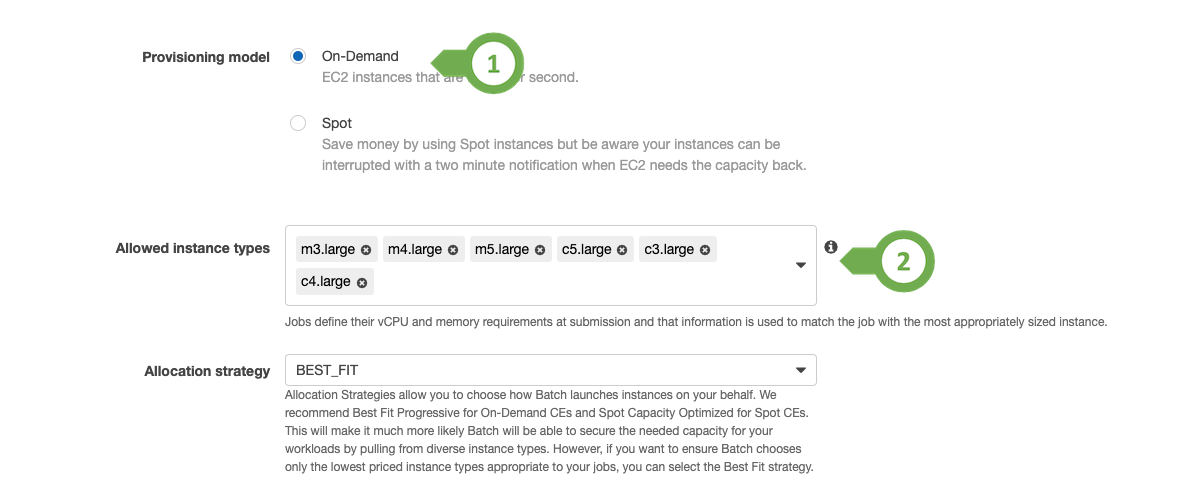
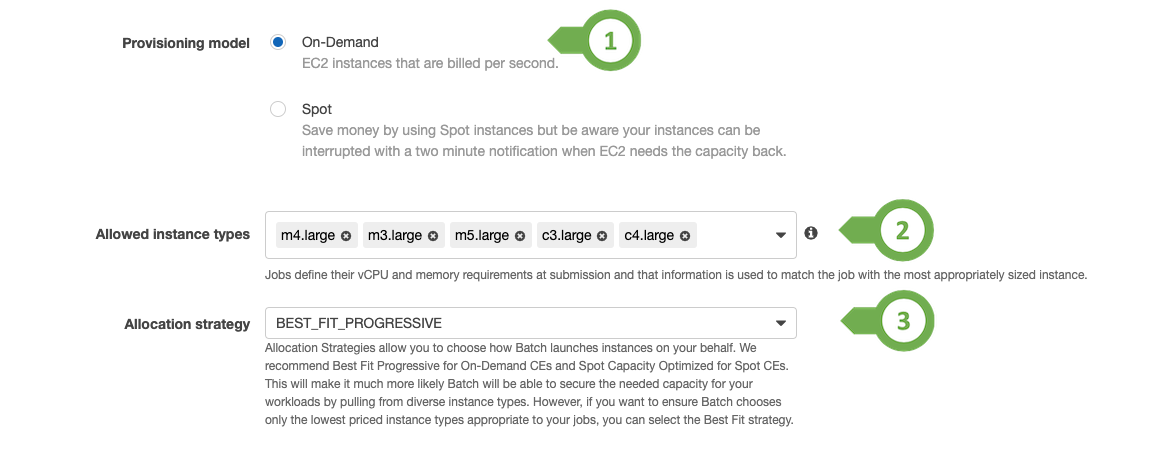
adding more feedback from Carlos

Changed region(s): [[0.0621, 0.4308, 0.931, 0.9538], [0.0931, 0.0, 0.5586, 0.1846], [0.2483, 0.2154, 0.6828, 0.3692]]

diff --git a/content/nextflow-on-aws-batch/20_nextflow101/10_small.md b/content/nextflow-on-aws-batch/20_nextflow101/10_small.md
@@ -17,6 +17,49 @@ The example workflow implements a simple RNA-seq pipeline which:
    3. performs quantification
    4. creates a MultiQC report
 
+### Nextflow DSL
+
+Even though this is not a deep dive into Nextflow's DSL - please have a look at how the Nextflow script is structured and appreciate the UNIX resemblance having an `input`, `output` and a `script`.
+You can dive deeper by going through the [Nextflow documentation](https://www.nextflow.io/docs/latest/getstarted.html) and tutorials ([nextflow-camp tutorial](https://github.com/nextflow-io/nfcamp-tutorial), [DSL-2](https://www.nextflow.io/docs/edge/dsl2.html)).
+
+```ruby
+/* 
+ * pipeline input parameters 
+ */
+params.reads = "$baseDir/data/ggal/gut_{1,2}.fq"
+params.transcript = "$baseDir/data/ggal/transcriptome.fa"
+params.multiqc = "$baseDir/multiqc"
+params.outdir = "results"
+
+log.info """\
+         R N A S E Q - N F   P I P E L I N E    
+         ===================================
+         transcriptome: ${params.transcript}
+         reads        : ${params.reads}
+         outdir       : ${params.outdir}
+         """
+         .stripIndent()
+
+ 
+/* 
+ * define the `index` process that create a binary index 
+ * given the transcriptome file
+ */
+process index {
+    
+    input:
+    path transcriptome from params.transcript
+     
+    output:
+    path 'index' into index_ch
+
+    script:       
+    """
+    salmon index --threads $task.cpus -t $transcriptome -i index
+    """
+}
+```
+
 ### Pull Image and run
 
 As nextflow will run the image `nextflow/rnaseq-nf` and thus needs to download almost 3GB without advancing, we will first download the image so that we can see what docker is doing.
@@ -71,14 +114,3 @@ $
 The report can be previewed within Cloud9. Right-click (**[1]**) on the file and choose `Preview` (**[2]**) from the context menue.
 
 ![multiqc_report](/images/nextflow-on-aws-batch/nextflow101/multiqc_report.png)
-
-With more elaborate output nextflow can create more reports.
-
-```bash
-nextflow run script7.nf -with-report -with-trace -with-timeline -with-dag dag.png
-```
-
-This creates a bunch more reports about the workflow. E.g.:
-
-![dag](/images/nextflow-on-aws-batch/nextflow101/dag.png)
-![timeline](/images/nextflow-on-aws-batch/nextflow101/timeline.png)

diff --git a/content/nextflow-on-aws-batch/30_batch/20_dashboard.md b/content/nextflow-on-aws-batch/30_batch/20_dashboard.md
@@ -4,6 +4,18 @@ chapter: false
 weight: 20
 ---
 
+
+## AWS Batch in a Nutshell
+
+A typical AWS Batch workload might be triggered by input data being uploaded to S3, this will kick in multiple stages.
+
+![batch-arch](/images/nextflow-on-aws-batch/batch/batch_arch.gif)
+
+1. The *Upload* event triggeres a submission to a job queue (e.g. via lambda function)
+1. The AWS Batch scheduler runs periodically to check for jobs in the job queue
+1. Once jobs are placed, the scheduler evaluates the Compute Environments and adjusts the compute capacity to allow the jobs to run.
+1. The job output is stored external to the job (e.g. S3, EFS or FSx for Lustre)
+
 ## AWS Batch Dashboard
 
 Follow this [deep link to get to AWS Batch ](https://console.aws.amazon.com/batch/home) you will be greated by the landing page.
@@ -16,8 +28,8 @@ Click on 'get started' and skip the wizard.
 
 Now we are at the AWS Batch Dashboard, which allows us to create 
 
-   1. **Compute Environments**
-   1. **Job Definitions**
-   1. **Job Queues** 
+   1. **Job Definitions** Description of what application (Docker Image), how to use it (stroage, resource requirements) and what IAM persmissions are granted to the job execution.
+   1. **Job Queues** Logical queue holding jobs. A queue uses Compute Environments to execute jobs. A queue can be linked to multiple Compute Environments with different priorities to use a second queue in case a Compute Environment has insufficient capacity (e.g. reached its configured maximum capacity)
+   1. **Compute Environments** Compute capcity to run the job from the job-queue. They are backed by EC2 On-Demand and EC2 Spot instances running within an ECS cluster. A Compute Environment can back multiple queues, in which case a priority is defined.
 
 ![landingpage](/images/nextflow-on-aws-batch/batch/3_dashboard.png)

diff --git a/content/nextflow-on-aws-batch/20_nextflow101/20_s3.md b/content/nextflow-on-aws-batch/20_nextflow101/20_s3.md
@@ -14,11 +14,23 @@ The script also alows to overwrite the `output` destination and thus, we can use
 export BUCKET_NAME_RESULTS=nextflow-spot-batch-result-${RANDOM}-$(date +%s)
 aws --region ${AWS_REGION} s3 mb s3://${BUCKET_NAME_RESULTS}
 aws s3api put-bucket-tagging --bucket ${BUCKET_NAME_RESULTS} --tagging="TagSet=[{Key=nextflow-workshop,Value=true}]"
+aws s3 ls
 ```
 
 {{% notice info %}}
 Mind you that we are tagging the resource S3 to be able to find it for clean-up.
 {{% /notice %}}
+
+The last command will present you with the name of the bucket.
+
+```bash
+$ export BUCKET_NAME_RESULTS=nextflow-spot-batch-result-${RANDOM}-$(date +%s)
+$ aws --region ${AWS_REGION} s3 mb s3://${BUCKET_NAME_RESULTS}
+make_bucket: nextflow-spot-batch-result-20033-1587976463
+$ aws s3api put-bucket-tagging --bucket ${BUCKET_NAME_RESULTS} --tagging="TagSet=[{Key=nextflow-workshop,Value=true}]"
+$ aws s3 ls
+2020-04-27 08:34:25 nextflow-spot-batch-result-20033-1587976463
+```
 
 With the bucket created, we can add the parameter to the nextflow run:
 
@@ -49,3 +61,5 @@ $
 Now please go to the S3 console ([deep link](https://s3.console.aws.amazon.com/s3)) and check for the report within the bucket.
 
 ![report_in_s3](/images/nextflow-on-aws-batch/nextflow101/report_in_s3.png)
+
+Within this workshop we used a local **Docker** executor in the small example - for the remainder of the workshop we are going to use the [awsbatch executor](https://www.nextflow.io/docs/latest/awscloud.html#aws-batch) to submit jobs to [AWS Batch](https://aws.amazon.com/batch/).

diff --git a/content/nextflow-on-aws-batch/30_batch/_index.md b/content/nextflow-on-aws-batch/30_batch/_index.md
@@ -6,13 +6,8 @@ weight: 30
 
 # Setup AWS Batch
 
-Nextflow uses **process** definitions to define what script or command to execute, an executor is used to determine **how** the process is executed on the target system.
+Nextflow uses **process** definitions to define what script or command to execute. An executor is used to determine **how** the process is executed on the target system.
 
 The [nextflow documentation](https://www.nextflow.io/docs/latest/basic.html#execution-abstraction) explains it nicely:
 
 > In other words, Nextflow provides an abstraction between the pipeline's functional logic and the underlying execution system. Thus it is possible to write a pipeline once and to seamlessly run it on your computer, a grid platform, or the cloud, without modifying it, by simply defining the target execution platform in the configuration file.
-
-> In other words, Nextflow provides an abstraction between the pipeline's functional logic and the underlying execution system. Thus it is possible to write a pipeline once and to seamlessly run it on your computer, a grid platform, or the cloud, without modifying it, by simply defining the target execution platform in the configuration file.
-
-Within this workshop we already used a local **Docker** executor in the small example - for the remainder of the workshop we are going to use the [awsbatch executor](https://www.nextflow.io/docs/latest/awscloud.html#aws-batch) to submit jobs to [AWS Batch](https://aws.amazon.com/batch/).
-

diff --git a/content/nextflow-on-aws-batch/31_ce/31_od.md b/content/nextflow-on-aws-batch/31_ce/31_od.md
@@ -14,7 +14,8 @@ Thus, we create a small On-Demand compute environment which will run the supervi
 Similar to the spot environment, we choose a name (**[1]**), select the roles (**[2]** & **[3]**). As we do not need access to a local `aws-cli` we can keep the standard ECS image.
 ![4_create_ce-OD_1](/images/nextflow-on-aws-batch/batch/4_create_ce-OD_1.png)
 
-In the second section we select **On-Demand[1]** as the provisioning model and pick only `large` instances as this compute environment is running the supervising nextflow process, nothing that needs heavy computation.
+In the second section we select **On-Demand[1]** as the provisioning model. As this compute environment is only running supervising nextflow processes, we do not ne and pick some `large` instances as this compute environment (**[2]**). 
+Furthermore, we are going to to choose the `BEST FIT PROGRESSIVE` (**[3]**) as it will react to failures to aquire capacity.
 
 ![4_create_ce-OD_2-0](/images/nextflow-on-aws-batch/batch/4_create_ce-OD_2-0.png)
 

diff --git a/content/nextflow-on-aws-batch/31_ce/10_spot.md b/content/nextflow-on-aws-batch/31_ce/10_spot.md
@@ -1,12 +1,12 @@
 ---
-title: "Spot"
+title: "EC2 Spot"
 chapter: false
 weight: 10
 ---
 
 ## Create EC2 Spot Compute Environment
 
-To run the actual genomics tasks, we create a compute environment (CE) using EC2 Spot instances. 
+To run the actual genomics tasks, we create a compute environment (CE) using EC2 Spot instances.
 
 ![4_create_ce_0](/images/nextflow-on-aws-batch/batch/4_create_ce_0.png?classes=shadow)
 
@@ -19,7 +19,7 @@ In the second section we select **Spot [1]** as the provisioning model, leave mo
 ![4_create_ce_2](/images/nextflow-on-aws-batch/batch/4_create_ce_2.png)
 
 {{% notice info %}}
-In a production environment we might want to choose 0 as a minimum to scale down to no compute at all in case no work is to be done. 
+In a production environment we might want to choose 0 as a minimum to scale down to no compute at all in case no work is to be done.
 When conducting a workshop we keep the CE from scale down to zero, as a scale out takes a couple of minutes.
 {{% /notice %}}
 

diff --git a/content/nextflow-on-aws-batch/31_ce/_index.md b/content/nextflow-on-aws-batch/31_ce/_index.md
@@ -6,12 +6,11 @@ weight: 31
 
 ### Setup AWS Batch Compute Environments and Job Queues
 
-**needs some improvements**
+<!-- [comment]: **needs some improvements** -->
 
 AWS Batch defines Compute Environments to executes jobs and Job Queues to submit jobs to.
 
 The workshop will use two queues to submit and execute jobs.
 
+- **workflow queue** As the nextflow process is supervising the execution of a job it needs to run continuously. Thus, a workflow queue will hold this job and execute them on rather small (2 vCPU), On-Demand instances.
 - **job-queue** The nextflow process will compute a execution flow and submit jobs for individual tasks into the *job-queue*. Those tasks do the actual computation and uses the a Compute Environment `spot-ce` leveraging EC2 Spot instances.
-- **workflow queue** As the nextflow process is supervising the execution of a job it needs to run continuously. Thus, a workflow queue will hold this job and execute them on rather small, On-Demand instances.
-

diff --git a/content/nextflow-on-aws-batch/40_nextflow202/02_two-phases.md b/content/nextflow-on-aws-batch/40_nextflow202/02_two-phases.md
@@ -1,0 +1,23 @@
+
+---
+title: "Local and Detached Run"
+chapter: false
+weight: 02
+---
+
+The first run will run the supervision locally and the second one runs the supervision in AWS Batch itself.
+
+### Local Run
+
+The local run will use the job-queue to submit jobs directly.
+
+![nextflow-test-arch](/images/nextflow-on-aws-batch/nextflow202/nextflow-test-arch.png)
+
+The drawback is that the nextflow process to supervise the execution is interactive and needs to keep running on the Cloud9 instance.
+
+### Batch Squared
+
+To decouple the supervision we are going to start the process within a second AWS Batch queue, so that it will stick around as long as the execution takes.
+Some call this scenario 'batch squared' because it uses a queue to submit to a queue.
+
+![nextflow-workshop-arch](/images/nextflow-on-aws-batch/nextflow-workshop-arch.png)

diff --git a/content/nextflow-on-aws-batch/40_nextflow202/_index.md b/content/nextflow-on-aws-batch/40_nextflow202/_index.md
@@ -9,18 +9,3 @@ weight: 40
 Now that we setup AWS Batch we can use Nextflow to submit jobs we are getting closer to our architecture.
 
 To approach it slowly we will do two steps here.
-
-### Local Run
-
-The local run will use the job-queue to submit jobs directly.
-
-![nextflow-test-arch](/images/nextflow-on-aws-batch/nextflow202/nextflow-test-arch.png)
-
-The drawback is that the nextflow process to supervise the execution is interactive and needs to keep running on the Cloud9 instance.
-
-### Batch Squared
-
-To decouple the supervision we are going to start the process within a second AWS Batch queue, so that it will stick around as long as the execution takes.
-Some call this scenario 'batch squared' because it uses a queue to submit to a queue.
-
-![nextflow-workshop-arch](/images/nextflow-on-aws-batch/nextflow-workshop-arch.png)

diff --git a/content/nextflow-on-aws-batch/40_nextflow202/30_docker-image.md b/content/nextflow-on-aws-batch/40_nextflow202/30_docker-image.md
@@ -4,8 +4,7 @@ chapter: false
 weight: 30
 ---
 
-To check our setup we will run nextflow on the Cloud9 instance, submitting jobs to AWS Batch.
-
+Now, we are build an image to be used to submit AWS Batch jobs from a headnode Nextflow AWS Batch job; some referr to it as 'AWS Batch Squared'.
 ![nextflow-workshop-arch](/images/nextflow-on-aws-batch/nextflow-workshop-arch.png)
 
 ## ECR

diff --git a/content/nextflow-on-aws-batch/40_nextflow202/37_batched-squared-debug.md b/content/nextflow-on-aws-batch/40_nextflow202/37_batched-squared-debug.md
@@ -14,7 +14,7 @@ docker run -ti --rm -e AWS_REGION=${AWS_REGION} \
                     ${REPO_URI}:${IMG_TAG} bash
 ```
 
-That allows you to run the entrypoint script on your own and see what is happening.
+That allows you to run the entrypoint script `entrypoint.sh` on your own and see what is happening.
 
 ```bash
 $ docker run -ti --rm -e AWS_REGION=${AWS_REGION} \

diff --git a/content/nextflow-on-aws-batch/31_ce/40_job_queue.md b/content/nextflow-on-aws-batch/31_ce/40_job_queue.md
@@ -19,7 +19,7 @@ After we chose the CE the form will look like this:
 
 ![](/images/nextflow-on-aws-batch/batch/5_queue_workflow_1-1.png)
 
-### Spot Queue
+### EC2 Spot Queue
 
 Please create a second queue called **job-queue** that links to the spot compute environment (**spot-ce**)
 
